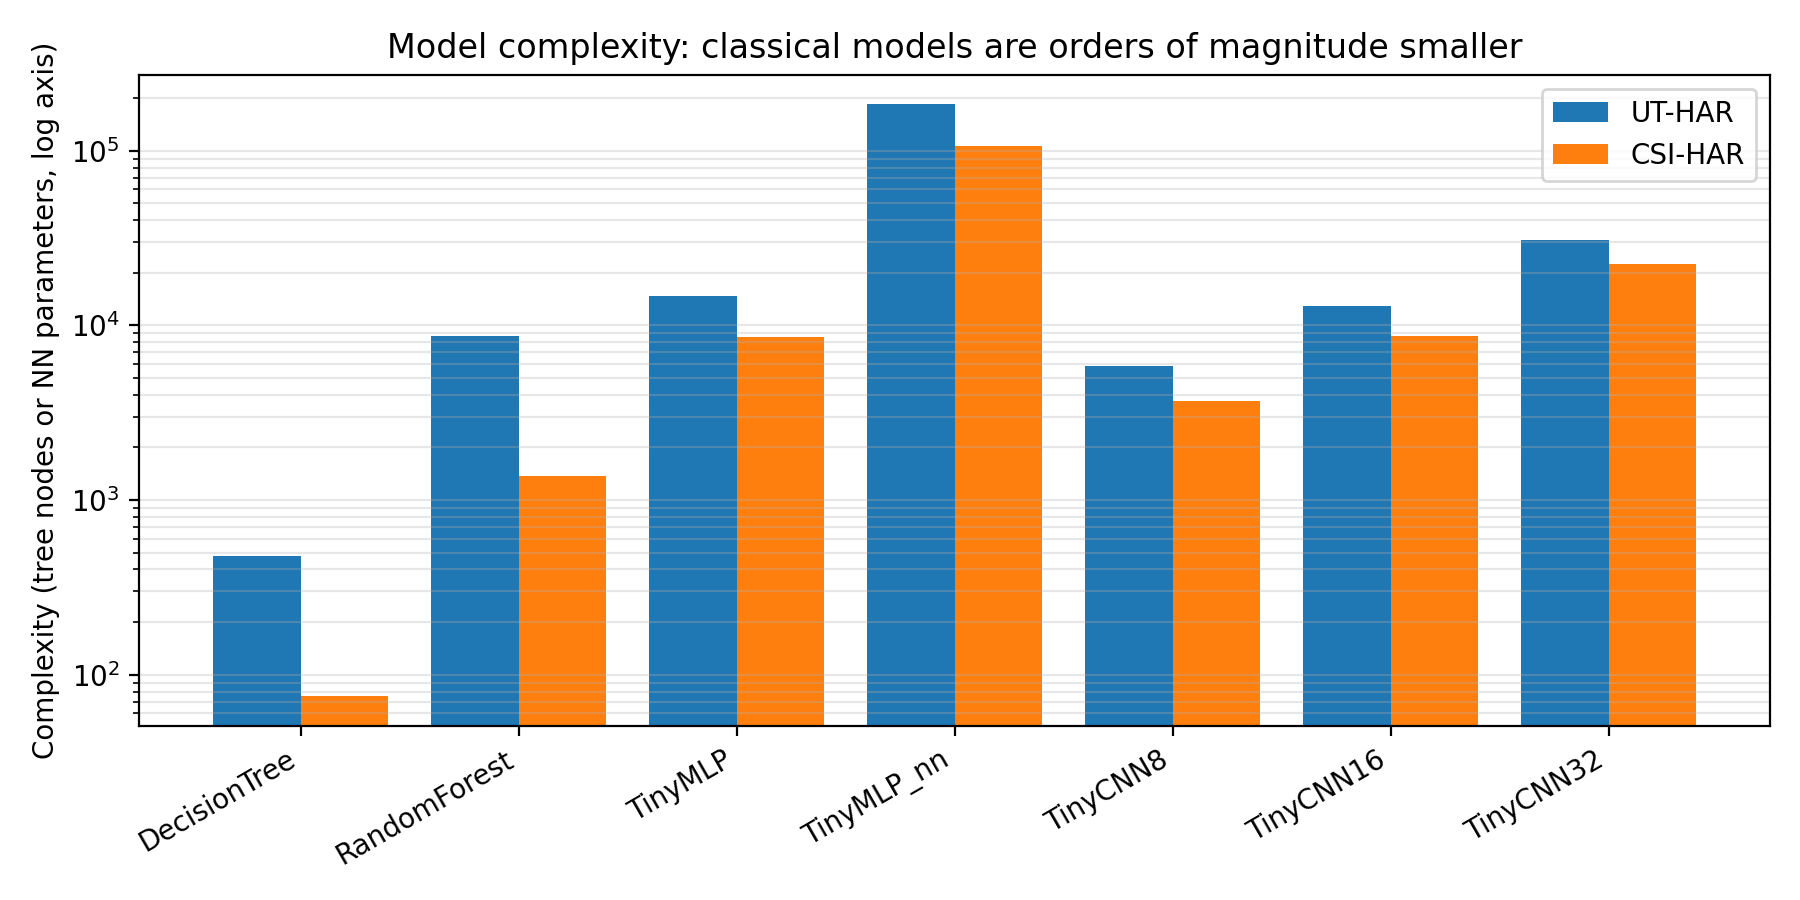
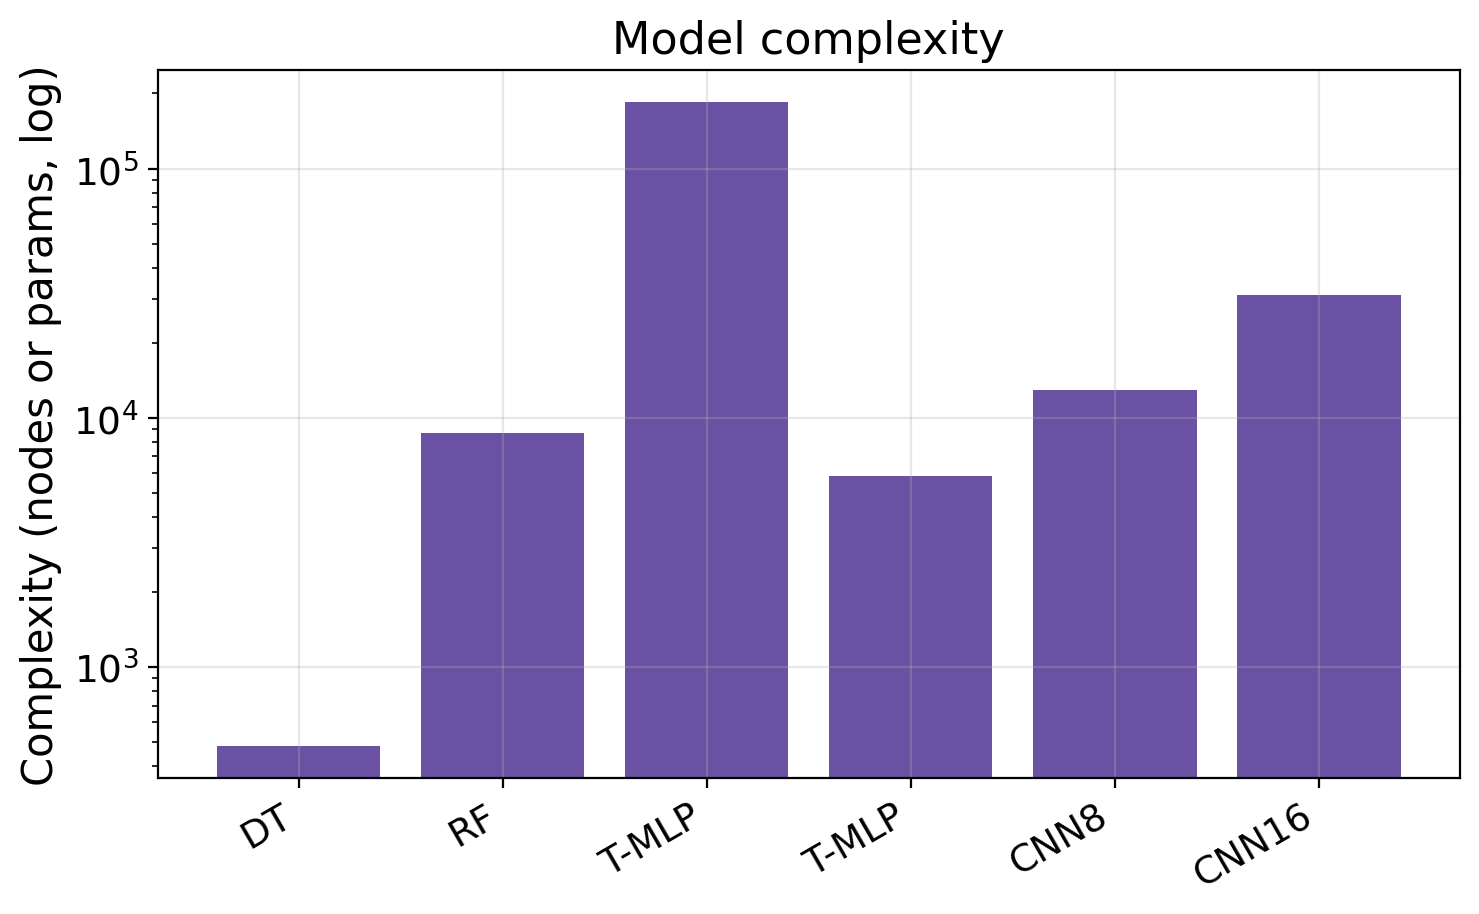
Revision 3 (spec #10): regenerate Figs 4-9 with larger fonts + consistent publication styling (make_figs.py from result CSVs); gengap/frontier reflect the exploratory 3-user + subject-overlapping reframe

diff --git a/manuscript/make_figs.py b/manuscript/make_figs.py
@@ -1,0 +1,122 @@
+#!/usr/bin/env python3
+"""Regenerates the result figures (Figs 4-9) with larger fonts and consistent
+publication styling, from the released result CSVs (reviewer spec #10). Overwrites
+fig_accuracy/frontier/complexity/memory/gengap/personalization/cm_*.png in place."""
+import matplotlib
+matplotlib.use("Agg")
+import matplotlib.pyplot as plt
+import numpy as np, csv, os
+from pathlib import Path
+
+R = Path("/home/ahmad/Downloads/Crypto_Project/frontier_results")
+OUT = Path(".")
+plt.rcParams.update({
+    "font.size": 15, "axes.titlesize": 16, "axes.labelsize": 15,
+    "xtick.labelsize": 13.5, "ytick.labelsize": 13.5, "legend.fontsize": 13.5,
+    "font.family": "sans-serif", "axes.grid": True, "grid.alpha": 0.3,
+    "figure.dpi": 200, "savefig.dpi": 200, "savefig.bbox": "tight",
+})
+UT, CSI = "#1f77b4", "#d62728"
+
+def rows(f):
+    with open(R/f) as fh: return list(csv.DictReader(fh))
+
+# ---- frontier_tidy: dataset,model,kind,acc,complexity,int8_kb ----
+ft = rows("frontier_tidy.csv")
+def sub(ds, kinds): return [r for r in ft if r["dataset"]==ds and r["kind"] in kinds]
+
+# nice model labels
+LAB={"DecisionTree":"DT","RandomForest":"RF","MLP_stats":"MLP-stat","MLPstats":"MLP-stat",
+     "TinyMLP_nn":"T-MLP","TinyMLP":"T-MLP","TinyCNN8":"CNN8","TinyCNN16":"CNN16","TinyCNN32":"CNN32"}
+def lab(m): return LAB.get(m, m)
+
+# --- fig_accuracy: grouped bars, classical+tiny, UT vs CSI ---
+models=[r["model"] for r in sub("UT-HAR",{"classical","tiny-nn"})]
+acc_ut={r["model"]:float(r["acc"]) for r in sub("UT-HAR",{"classical","tiny-nn"})}
+acc_csi={r["model"]:float(r["acc"]) for r in sub("CSI-HAR",{"classical","tiny-nn"})}
+x=np.arange(len(models)); w=0.38
+fig,ax=plt.subplots(figsize=(8.4,4.6))
+ax.bar(x-w/2,[acc_ut.get(m,0) for m in models],w,label="UT-HAR",color=UT)
+ax.bar(x+w/2,[acc_csi.get(m,0) for m in models],w,label="CSI-HAR (LOUO)",color=CSI)
+ax.set_xticks(x); ax.set_xticklabels([lab(m) for m in models],rotation=30,ha="right")
+ax.set_ylabel("Accuracy (%)"); ax.set_ylim(0,105); ax.legend()
+ax.set_title("Classical and tiny tiers: accuracy by dataset")
+fig.savefig(OUT/"fig_accuracy.png"); plt.close(fig)
+
+# --- fig_frontier: accuracy vs int8 size (tiny nets), log-x ---
+fig,ax=plt.subplots(figsize=(7.6,4.8))
+for ds,c in (("UT-HAR",UT),("CSI-HAR",CSI)):
+    pts=[(float(r["int8_kb"]),float(r["acc"]),lab(r["model"])) for r in sub(ds,{"tiny-nn"}) if r["int8_kb"]]
+    if not pts: continue
+    xs,ys,ls=zip(*pts)
+    ax.scatter(xs,ys,s=90,color=c,label=ds,zorder=3)
+    for xx,yy,ll in pts: ax.annotate(ll,(xx,yy),textcoords="offset points",xytext=(6,4),fontsize=12)
+ax.set_xscale("log"); ax.set_xlabel("int8 model size (kB, log scale)")
+ax.set_ylabel("Accuracy (%)"); ax.legend(); ax.set_title("Accuracy vs int8 size (tiny networks)")
+fig.savefig(OUT/"fig_frontier.png"); plt.close(fig)
+
+# --- fig_complexity: complexity (log) per model, UT tier ---
+comp=[(lab(r["model"]),float(r["complexity"])) for r in sub("UT-HAR",{"classical","tiny-nn"}) if r["complexity"]]
+fig,ax=plt.subplots(figsize=(8.4,4.6))
+ax.bar([m for m,_ in comp],[c for _,c in comp],color="#6a51a3")
+ax.set_yscale("log"); ax.set_ylabel("Complexity (nodes or params, log)")
+ax.set_xticklabels([m for m,_ in comp],rotation=30,ha="right")
+ax.set_title("Model complexity")
+fig.savefig(OUT/"fig_complexity.png"); plt.close(fig)
+
+# --- fig_memory: measured arena vs ~150 kB budget ---
+sm=rows("ondevice/summary_240.csv")  # model,latency_ms,latency_std_ms,arena_kB,energy_mJ
+def clean(m): return m.replace("_"," ").replace("uthar","UT").replace("csihar","CSI")
+mm=[(clean(r["model"]),float(r["arena_kB"])) for r in sm]
+mm.sort(key=lambda t:t[1])
+fig,ax=plt.subplots(figsize=(8.8,5.0))
+ax.barh([m for m,_ in mm],[a for _,a in mm],color="#2f7d32")
+ax.axvline(150,ls="--",color="#b03030",lw=2); ax.text(150,-0.6,"~150 kB budget",color="#b03030",fontsize=12,ha="center")
+ax.set_xlabel("Peak tensor arena (kB)"); ax.set_title("Measured on-device arena vs SRAM budget")
+fig.savefig(OUT/"fig_memory.png"); plt.close(fig)
+
+# --- fig_gengap: random vs LOUO bars + gap ---
+gg=rows("gengap_table.csv")
+gm=[r["Model"] for r in gg]; rnd=[float(r["random_mean"])*100 for r in gg]; lo=[float(r["louo_mean"])*100 for r in gg]
+gap=[float(r["gap_pts"]) for r in gg]
+x=np.arange(len(gm)); w=0.38
+fig,ax=plt.subplots(figsize=(9.0,4.8))
+ax.bar(x-w/2,rnd,w,label="Random (subject-overlapping)",color="#9ecae1")
+ax.bar(x+w/2,lo,w,label="LOUO (subject-independent)",color="#08519c")
+for i,g in enumerate(gap): ax.text(x[i],max(rnd[i],lo[i])+1.5,f"-{g:.0f}",color="#d62728",ha="center",fontsize=12,weight="bold")
+ax.set_xticks(x); ax.set_xticklabels([lab(m) for m in gm],rotation=30,ha="right")
+ax.set_ylabel("Accuracy (%)"); ax.set_ylim(0,105); ax.legend(loc="lower left")
+ax.set_title("Cross-subject gap on CSI-HAR (3 users, exploratory)")
+fig.savefig(OUT/"fig_gengap.png"); plt.close(fig)
+
+# --- fig_personalization: acc vs k, TinyCNN32 + RF, errorbars ---
+pp=rows("personalization/personalization_table.csv")
+k=[int(r["k"]) for r in pp]
+fig,ax=plt.subplots(figsize=(7.6,4.8))
+ax.errorbar(k,[float(r["TinyCNN32"]) for r in pp],yerr=[float(r["TinyCNN32_std"]) for r in pp],
+            marker="o",capsize=4,lw=2,color=UT,label="Tiny CNN (32 ch)")
+ax.errorbar(k,[float(r["RandomForest"]) for r in pp],yerr=[float(r["RandomForest_std"]) for r in pp],
+            marker="s",capsize=4,lw=2,color="#2ca02c",label="Random Forest")
+ax.axhline(100/7,ls=":",color="#888"); ax.text(max(k),100/7+2,"chance",ha="right",fontsize=12,color="#666")
+ax.set_xlabel("Calibration samples from held-out user (k)"); ax.set_ylabel("Accuracy on held-out user (%)")
+ax.legend(); ax.set_title("Per-user calibration recovers accuracy (CSI-HAR)")
+fig.savefig(OUT/"fig_personalization.png"); plt.close(fig)
+
+# --- fig_cm_*: confusion matrices, larger fonts ---
+for name,fn in (("TinyCNN32","cm_TinyCNN32.csv"),("RandomForest","cm_RandomForest.csv"),("DeepCNN","cm_DeepCNN.csv")):
+    rr=rows("metrics/"+fn); acts=list(rr[0].keys())[1:]
+    M=np.array([[int(float(r[a])) for a in acts] for r in rr])
+    fig,ax=plt.subplots(figsize=(5.6,5.0))
+    im=ax.imshow(M,cmap="Blues")
+    ax.set_xticks(range(len(acts))); ax.set_xticklabels(acts,rotation=45,ha="right",fontsize=12)
+    ax.set_yticks(range(len(acts))); ax.set_yticklabels(acts,fontsize=12)
+    thr=M.max()/2
+    for i in range(len(acts)):
+        for j in range(len(acts)):
+            ax.text(j,i,M[i,j],ha="center",va="center",fontsize=12,
+                    color="white" if M[i,j]>thr else "#111")
+    ax.set_title(f"{name}",fontsize=15); ax.set_xlabel("predicted"); ax.set_ylabel("true")
+    ax.grid(False)
+    fig.savefig(OUT/f"fig_cm_{name}.png"); plt.close(fig)
+
+print("regenerated:", *[p.name for p in OUT.glob("fig_*.png")])
